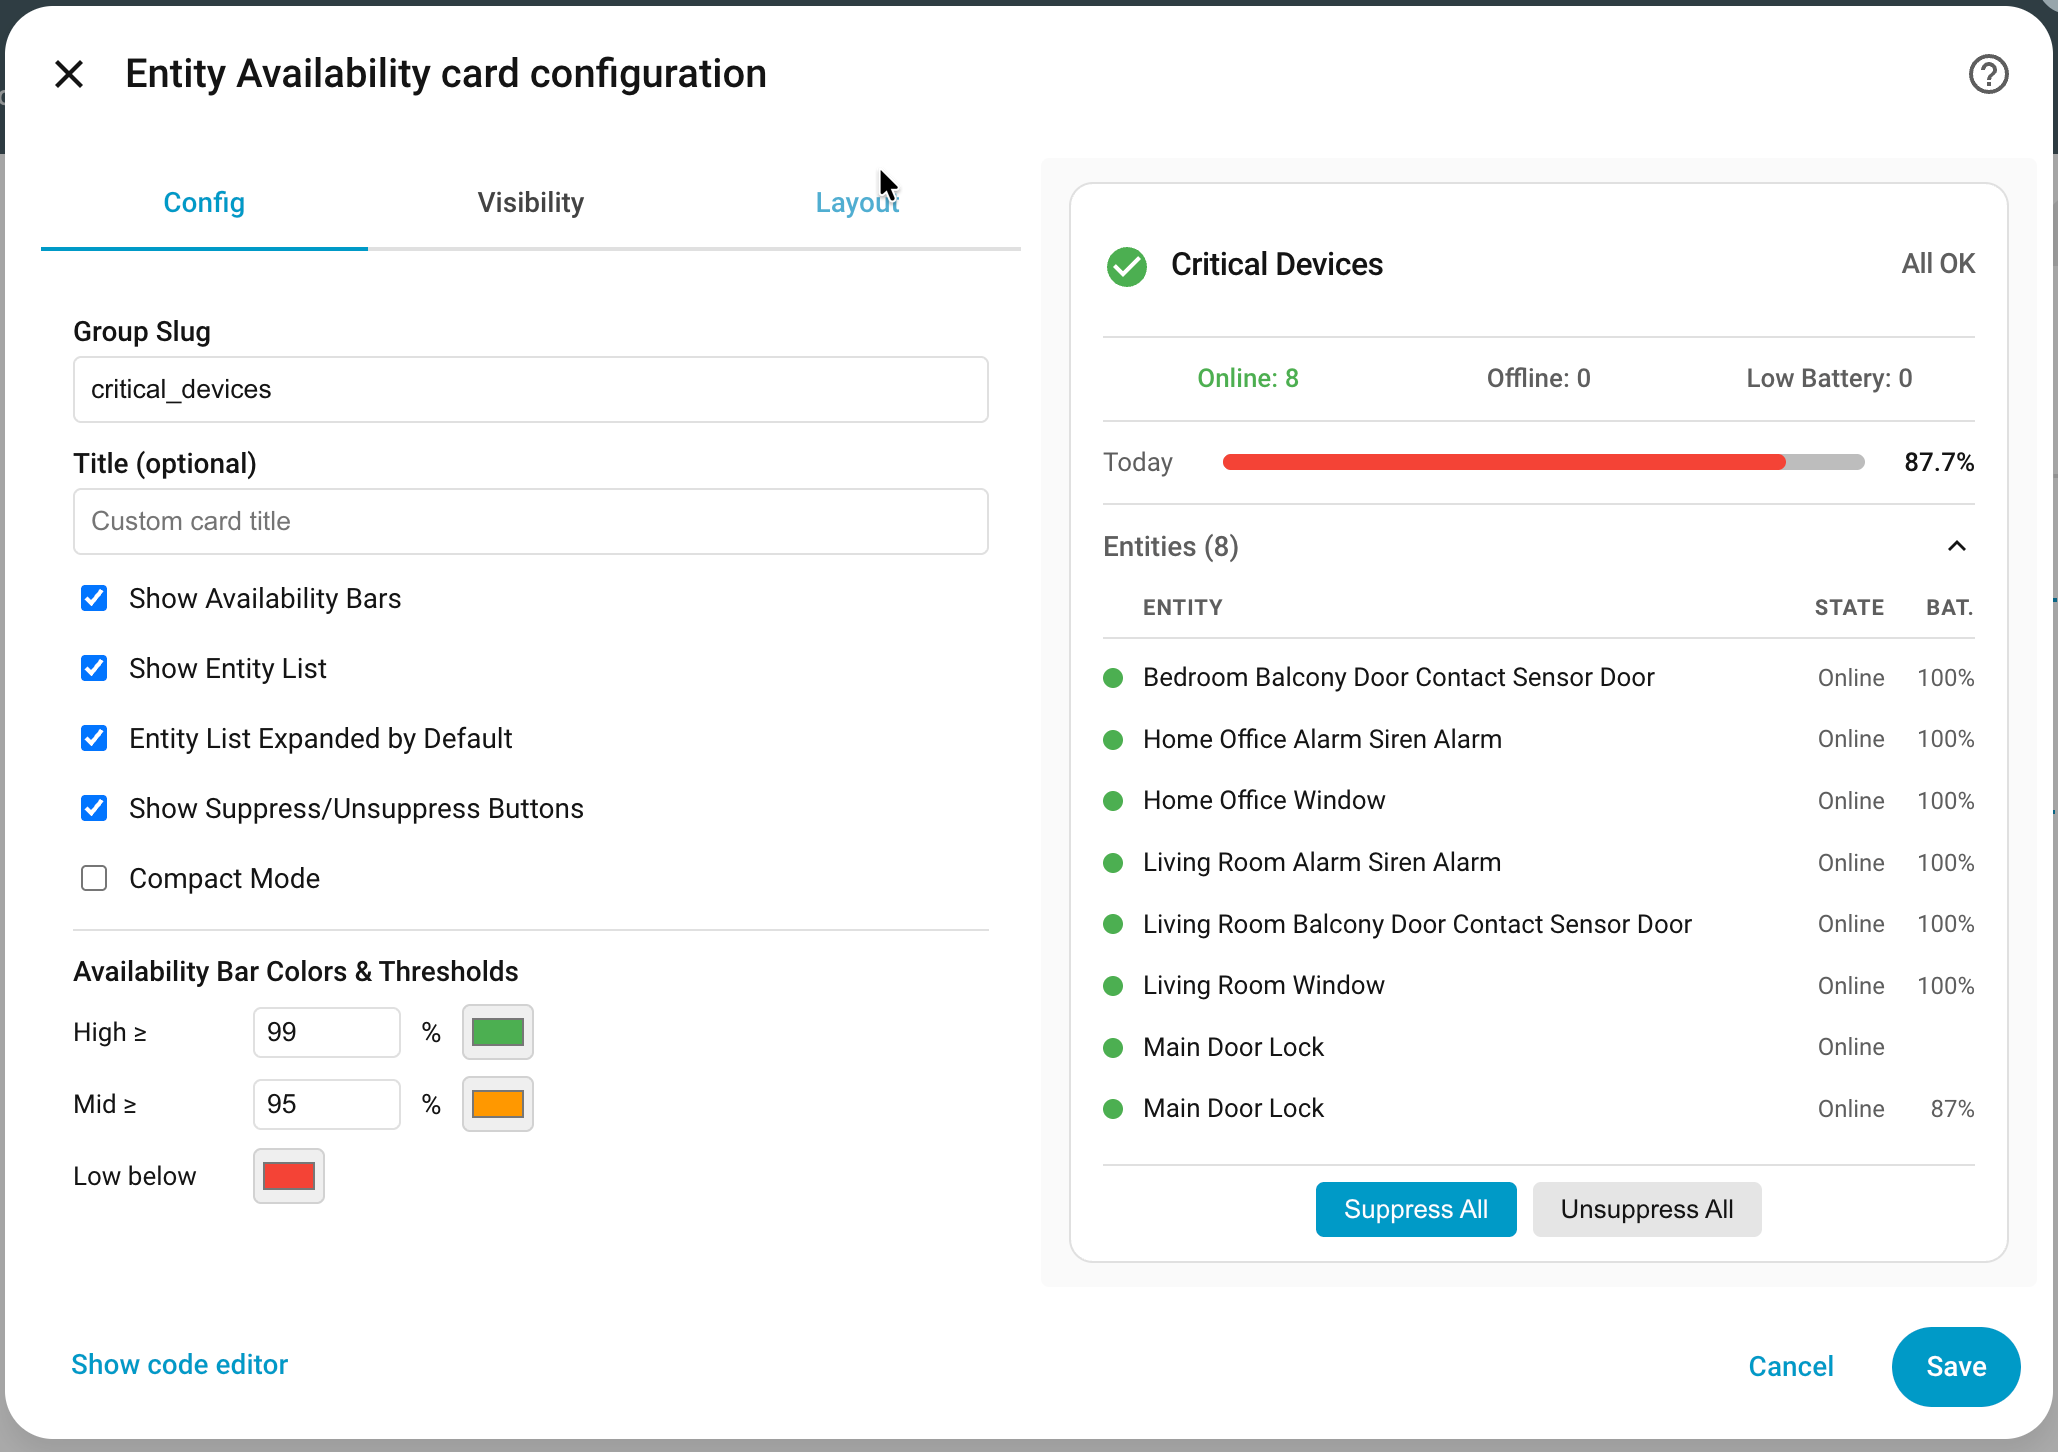
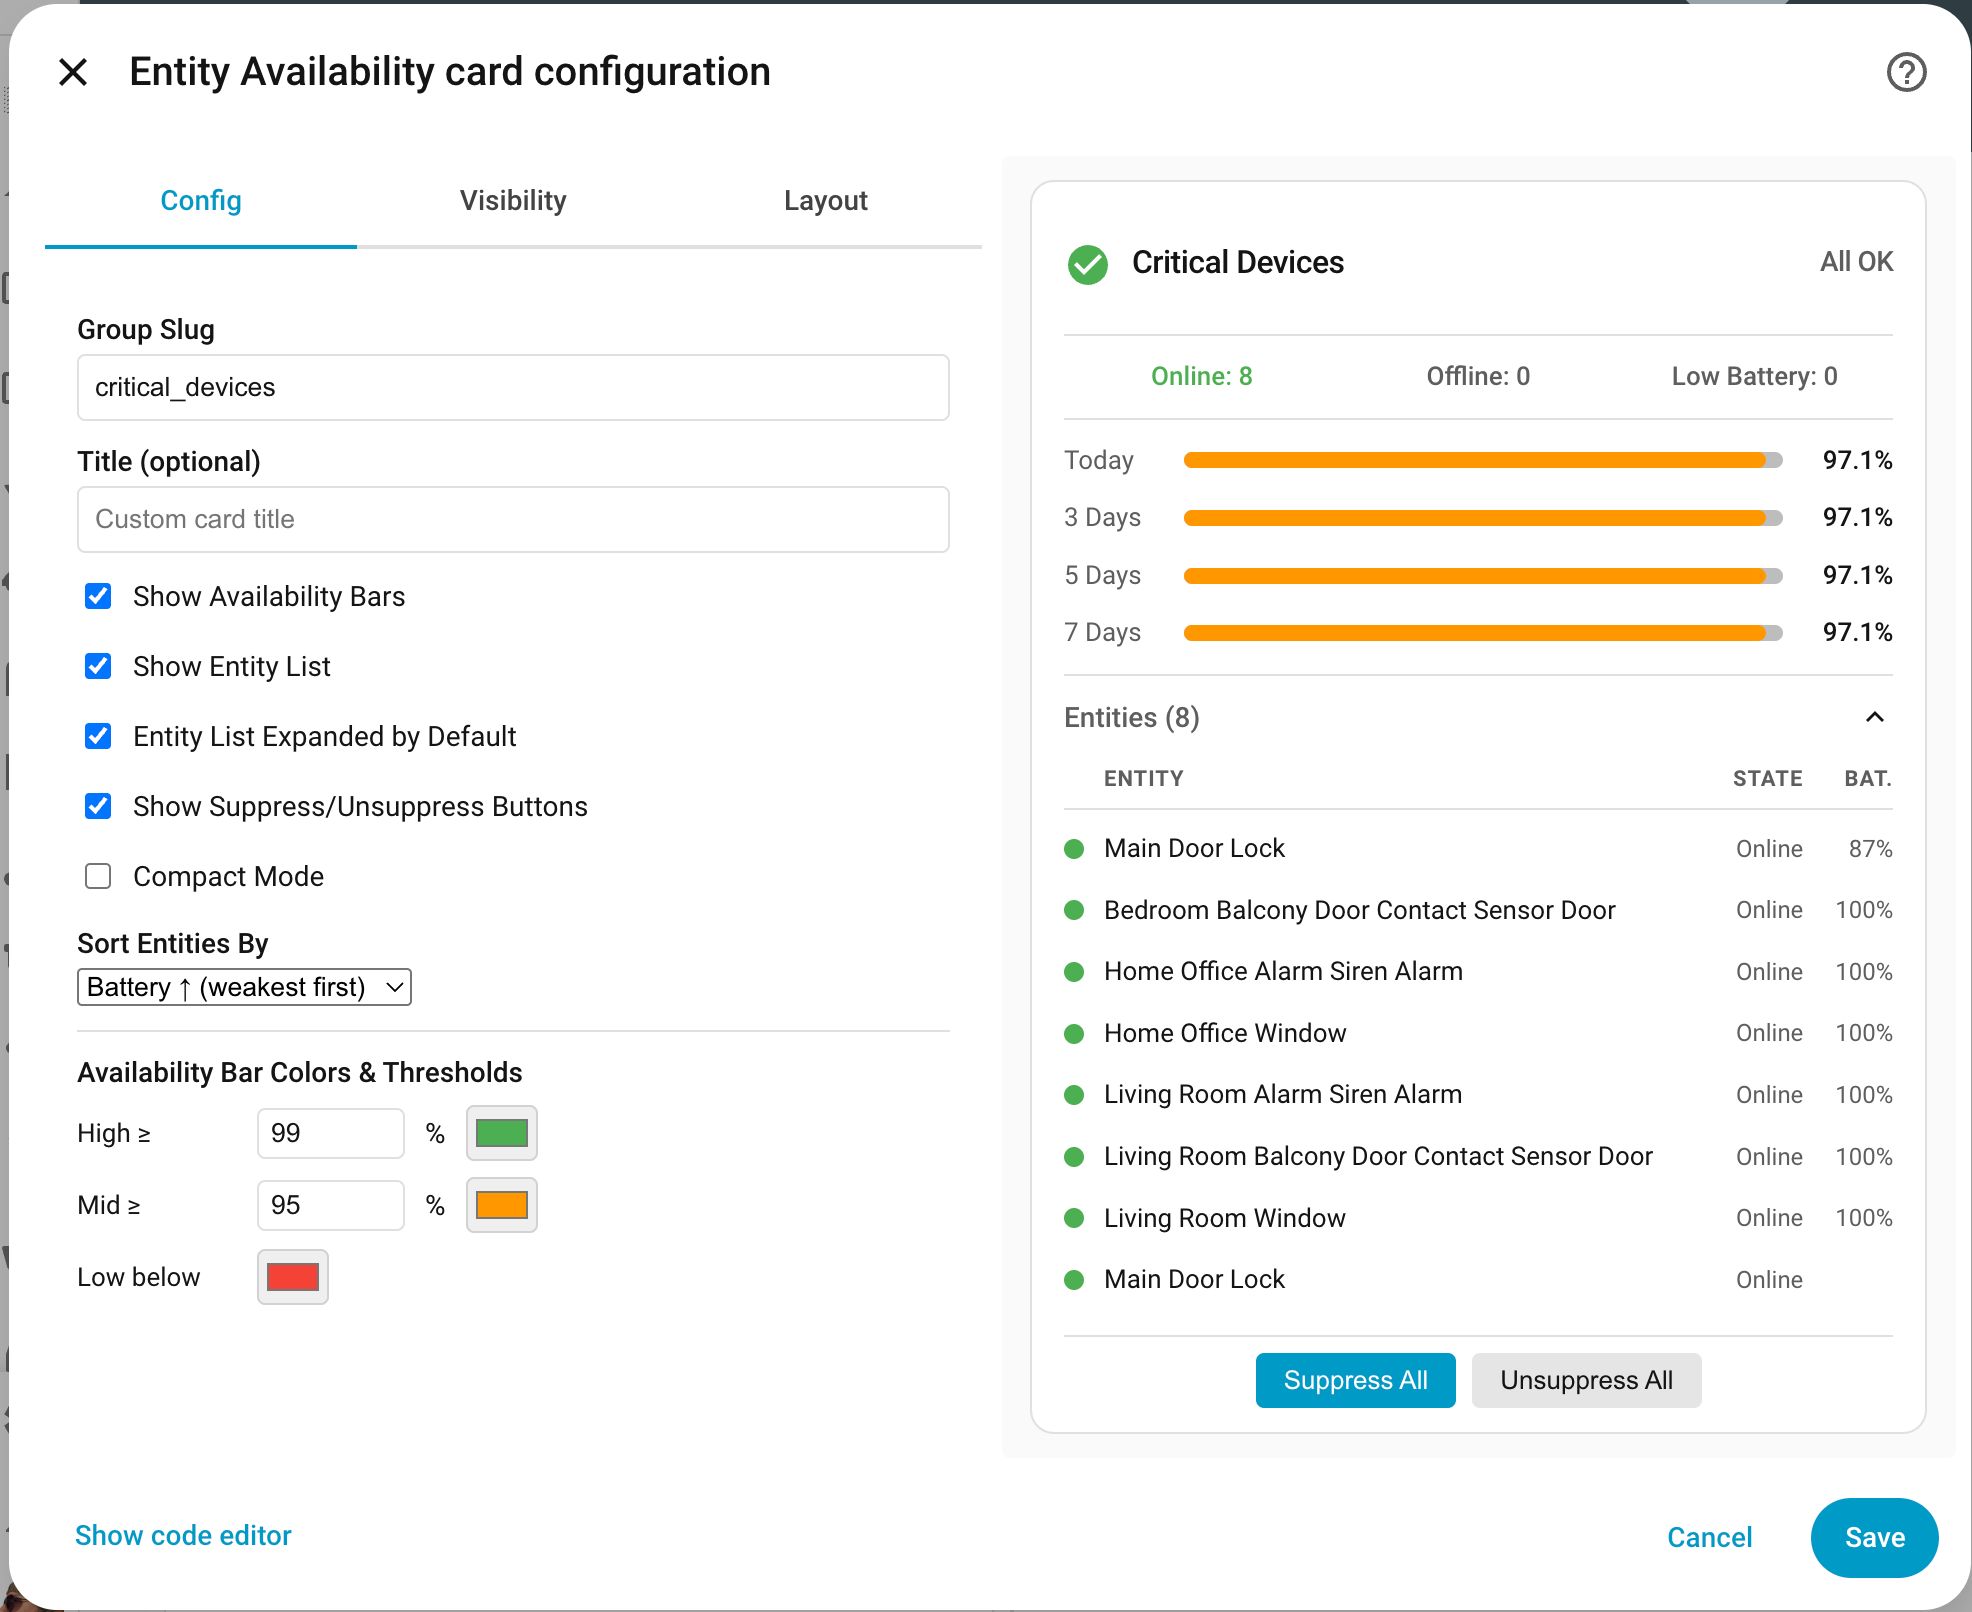
feat: add configurable entity sort order to Lovelace card
Add sort_by config option to entity-availability-card with five modes:
status (default), name_asc, name_desc, battery_asc, battery_desc.
Entities without a battery sensor sort to the bottom in battery modes.
Alphabetical tie-break applies within equal-battery groups.

Also adds sort dropdown to visual card editor and 32 pytest unit tests
covering all sort modes, null-battery sentinel logic, and edge cases.

Update README, info.md, and CHANGELOG to document new option.

diff --git a/custom_components/entity_availability/frontend/entity-availability-card.js b/custom_components/entity_availability/frontend/entity-availability-card.js
@@ -431,6 +431,7 @@ class EntityAvailabilityCard extends LitElement {
       entities_expanded: false,
       show_actions: false,
       compact: false,
+      sort_by: "status",
       ...config,
     };
     this._entitiesExpanded = this._config.entities_expanded;
@@ -643,11 +644,28 @@ class EntityAvailabilityCard extends LitElement {
     });
 
     items.sort((a, b) => {
-      if (a.isOffline && !b.isOffline) return -1;
-      if (!a.isOffline && b.isOffline) return 1;
-      if (a.dotColor === "yellow" && b.dotColor === "green") return -1;
-      if (a.dotColor === "green" && b.dotColor === "yellow") return 1;
-      return a.name.localeCompare(b.name);
+      const sortBy = this._config.sort_by || "status";
+      if (sortBy === "name_asc") {
+        return a.name.localeCompare(b.name);
+      } else if (sortBy === "name_desc") {
+        return b.name.localeCompare(a.name);
+      } else if (sortBy === "battery_asc") {
+        const aBat = a.battery ?? 101;
+        const bBat = b.battery ?? 101;
+        if (aBat !== bBat) return aBat - bBat;
+        return a.name.localeCompare(b.name);
+      } else if (sortBy === "battery_desc") {
+        const aBat = a.battery ?? -1;
+        const bBat = b.battery ?? -1;
+        if (aBat !== bBat) return bBat - aBat;
+        return a.name.localeCompare(b.name);
+      } else {
+        if (a.isOffline && !b.isOffline) return -1;
+        if (!a.isOffline && b.isOffline) return 1;
+        if (a.dotColor === "yellow" && b.dotColor === "green") return -1;
+        if (a.dotColor === "green" && b.dotColor === "yellow") return 1;
+        return a.name.localeCompare(b.name);
+      }
     });
 
     return items;
@@ -893,6 +911,19 @@ class EntityAvailabilityCardEditor extends LitElement {
             />
             Compact Mode
           </label>
+        </div>
+        <div class="editor-row">
+          <label>Sort Entities By</label>
+          <select
+            .value=${this._config.sort_by || "status"}
+            @change=${(e) => this._updateConfig("sort_by", e.target.value)}
+          >
+            <option value="status"       .selected=${(this._config.sort_by || "status") === "status"}>Status (default)</option>
+            <option value="name_asc"     .selected=${this._config.sort_by === "name_asc"}>Name A → Z</option>
+            <option value="name_desc"    .selected=${this._config.sort_by === "name_desc"}>Name Z → A</option>
+            <option value="battery_asc"  .selected=${this._config.sort_by === "battery_asc"}>Battery ↑ (weakest first)</option>
+            <option value="battery_desc" .selected=${this._config.sort_by === "battery_desc"}>Battery ↓ (strongest first)</option>
+          </select>
         </div>
         <div class="threshold-section">
           <label>Availability Bar Colors & Thresholds</label>

diff --git a/tests/test_card_sort.py b/tests/test_card_sort.py
@@ -1,0 +1,290 @@
+"""Tests for entity-availability-card.js sort logic.
+
+The card's _buildEntityItems() sort is pure algorithmic logic with no HA
+dependency. This module mirrors that logic in Python and tests all five
+sort_by values: status, name_asc, name_desc, battery_asc, battery_desc.
+"""
+
+from __future__ import annotations
+
+import functools
+from dataclasses import dataclass
+from typing import Optional
+
+
+@dataclass
+class EntityItem:
+    entity_id: str
+    name: str
+    dot_color: str  # "green" | "yellow" | "red"
+    status: str
+    battery: Optional[int]
+    is_offline: bool
+
+
+def sort_entities(items: list[EntityItem], sort_by: str = "status") -> list[EntityItem]:
+    """Mirror of _buildEntityItems sort logic from entity-availability-card.js."""
+
+    def comparator(a: EntityItem, b: EntityItem) -> int:
+        if sort_by == "name_asc":
+            return (a.name > b.name) - (a.name < b.name)
+        elif sort_by == "name_desc":
+            return (b.name > a.name) - (b.name < a.name)
+        elif sort_by == "battery_asc":
+            a_bat = a.battery if a.battery is not None else 101
+            b_bat = b.battery if b.battery is not None else 101
+            if a_bat != b_bat:
+                return a_bat - b_bat
+            return (a.name > b.name) - (a.name < b.name)
+        elif sort_by == "battery_desc":
+            a_bat = a.battery if a.battery is not None else -1
+            b_bat = b.battery if b.battery is not None else -1
+            if a_bat != b_bat:
+                return b_bat - a_bat
+            return (a.name > b.name) - (a.name < b.name)
+        else:  # "status" default
+            if a.is_offline and not b.is_offline:
+                return -1
+            if not a.is_offline and b.is_offline:
+                return 1
+            if a.dot_color == "yellow" and b.dot_color == "green":
+                return -1
+            if a.dot_color == "green" and b.dot_color == "yellow":
+                return 1
+            return (a.name > b.name) - (a.name < b.name)
+
+    return sorted(items, key=functools.cmp_to_key(comparator))
+
+
+# ---------------------------------------------------------------------------
+# Helpers
+# ---------------------------------------------------------------------------
+
+def _online(name: str, battery: Optional[int] = None) -> EntityItem:
+    dot = "yellow" if battery is not None and battery < 20 else "green"
+    status = "Low Battery" if dot == "yellow" else "Online"
+    return EntityItem(
+        entity_id=f"binary_sensor.{name.lower().replace(' ', '_')}",
+        name=name,
+        dot_color=dot,
+        status=status,
+        battery=battery,
+        is_offline=False,
+    )
+
+
+def _offline(name: str, battery: Optional[int] = None) -> EntityItem:
+    return EntityItem(
+        entity_id=f"binary_sensor.{name.lower().replace(' ', '_')}",
+        name=name,
+        dot_color="red",
+        status="Offline",
+        battery=battery,
+        is_offline=True,
+    )
+
+
+# ---------------------------------------------------------------------------
+# status (default)
+# ---------------------------------------------------------------------------
+
+class TestSortByStatus:
+    def test_offline_before_online(self):
+        items = [_online("Alpha"), _offline("Beta")]
+        result = sort_entities(items, "status")
+        assert result[0].name == "Beta"
+        assert result[1].name == "Alpha"
+
+    def test_low_battery_before_online(self):
+        items = [_online("Alpha"), _online("Beta", battery=10)]
+        result = sort_entities(items, "status")
+        assert result[0].name == "Beta"
+        assert result[1].name == "Alpha"
+
+    def test_offline_before_low_battery_before_online(self):
+        items = [_online("Charlie"), _online("Beta", battery=10), _offline("Alpha")]
+        result = sort_entities(items, "status")
+        assert [r.name for r in result] == ["Alpha", "Beta", "Charlie"]
+
+    def test_alphabetical_within_online(self):
+        items = [_online("Charlie"), _online("Alpha"), _online("Beta")]
+        result = sort_entities(items, "status")
+        assert [r.name for r in result] == ["Alpha", "Beta", "Charlie"]
+
+    def test_alphabetical_within_offline(self):
+        items = [_offline("Charlie"), _offline("Alpha"), _offline("Beta")]
+        result = sort_entities(items, "status")
+        assert [r.name for r in result] == ["Alpha", "Beta", "Charlie"]
+
+    def test_alphabetical_within_low_battery(self):
+        items = [_online("Charlie", battery=5), _online("Alpha", battery=5), _online("Beta", battery=5)]
+        result = sort_entities(items, "status")
+        assert [r.name for r in result] == ["Alpha", "Beta", "Charlie"]
+
+    def test_default_sort_by_is_status(self):
+        items = [_online("Alpha"), _offline("Beta")]
+        assert sort_entities(items) == sort_entities(items, "status")
+
+    def test_single_item(self):
+        items = [_online("Alpha")]
+        assert sort_entities(items, "status") == items
+
+    def test_empty_list(self):
+        assert sort_entities([], "status") == []
+
+
+# ---------------------------------------------------------------------------
+# name_asc
+# ---------------------------------------------------------------------------
+
+class TestSortByNameAsc:
+    def test_alphabetical_order(self):
+        items = [_online("Charlie"), _offline("Alpha"), _online("Beta", battery=5)]
+        result = sort_entities(items, "name_asc")
+        assert [r.name for r in result] == ["Alpha", "Beta", "Charlie"]
+
+    def test_status_irrelevant(self):
+        items = [_offline("Zara"), _online("Alice")]
+        result = sort_entities(items, "name_asc")
+        assert result[0].name == "Alice"
+
+    def test_battery_irrelevant(self):
+        items = [_online("Zara", battery=1), _online("Alice", battery=99)]
+        result = sort_entities(items, "name_asc")
+        assert result[0].name == "Alice"
+
+    def test_case_sensitive_ordering(self):
+        items = [_online("beta"), _online("Alpha")]
+        result = sort_entities(items, "name_asc")
+        # Python str comparison: uppercase < lowercase in ASCII, but
+        # we use > / < which matches locale-independent comparison
+        assert result[0].name in ("Alpha", "beta")  # order is consistent
+
+    def test_single_item(self):
+        assert sort_entities([_online("Alpha")], "name_asc") == [_online("Alpha")]
+
+
+# ---------------------------------------------------------------------------
+# name_desc
+# ---------------------------------------------------------------------------
+
+class TestSortByNameDesc:
+    def test_reverse_alphabetical_order(self):
+        items = [_online("Alpha"), _offline("Charlie"), _online("Beta")]
+        result = sort_entities(items, "name_desc")
+        assert [r.name for r in result] == ["Charlie", "Beta", "Alpha"]
+
+    def test_status_irrelevant(self):
+        items = [_online("Alice"), _offline("Zara")]
+        result = sort_entities(items, "name_desc")
+        assert result[0].name == "Zara"
+
+    def test_battery_irrelevant(self):
+        items = [_online("Alice", battery=99), _online("Zara", battery=1)]
+        result = sort_entities(items, "name_desc")
+        assert result[0].name == "Zara"
+
+
+# ---------------------------------------------------------------------------
+# battery_asc (weakest first)
+# ---------------------------------------------------------------------------
+
+class TestSortByBatteryAsc:
+    def test_lowest_battery_first(self):
+        items = [_online("Alpha", battery=80), _online("Beta", battery=10), _online("Charlie", battery=50)]
+        result = sort_entities(items, "battery_asc")
+        assert [r.battery for r in result] == [10, 50, 80]
+
+    def test_no_battery_sorts_last(self):
+        items = [_online("Alpha"), _online("Beta", battery=50), _online("Charlie", battery=10)]
+        result = sort_entities(items, "battery_asc")
+        assert result[-1].name == "Alpha"
+        assert result[-1].battery is None
+
+    def test_multiple_no_battery_sort_alphabetically(self):
+        items = [_online("Zara"), _online("Alice"), _online("Beta", battery=50)]
+        result = sort_entities(items, "battery_asc")
+        assert result[0].name == "Beta"
+        assert result[1].name == "Alice"
+        assert result[2].name == "Zara"
+
+    def test_same_battery_alphabetical_tiebreak(self):
+        items = [_online("Charlie", battery=20), _online("Alpha", battery=20), _online("Beta", battery=20)]
+        result = sort_entities(items, "battery_asc")
+        assert [r.name for r in result] == ["Alpha", "Beta", "Charlie"]
+
+    def test_offline_entity_with_battery(self):
+        items = [_online("Alpha", battery=80), _offline("Beta", battery=5)]
+        result = sort_entities(items, "battery_asc")
+        assert result[0].name == "Beta"
+
+    def test_zero_battery_first(self):
+        items = [_online("Alpha", battery=1), _online("Beta", battery=0)]
+        result = sort_entities(items, "battery_asc")
+        assert result[0].battery == 0
+
+    def test_single_no_battery(self):
+        items = [_online("Alpha")]
+        result = sort_entities(items, "battery_asc")
+        assert result[0].battery is None
+
+
+# ---------------------------------------------------------------------------
+# battery_desc (strongest first)
+# ---------------------------------------------------------------------------
+
+class TestSortByBatteryDesc:
+    def test_highest_battery_first(self):
+        items = [_online("Alpha", battery=10), _online("Beta", battery=80), _online("Charlie", battery=50)]
+        result = sort_entities(items, "battery_desc")
+        assert [r.battery for r in result] == [80, 50, 10]
+
+    def test_no_battery_sorts_last(self):
+        items = [_online("Alpha"), _online("Beta", battery=50), _online("Charlie", battery=10)]
+        result = sort_entities(items, "battery_desc")
+        assert result[-1].name == "Alpha"
+        assert result[-1].battery is None
+
+    def test_multiple_no_battery_sort_alphabetically(self):
+        items = [_online("Zara"), _online("Alice"), _online("Beta", battery=50)]
+        result = sort_entities(items, "battery_desc")
+        assert result[0].name == "Beta"
+        assert result[1].name == "Alice"
+        assert result[2].name == "Zara"
+
+    def test_same_battery_alphabetical_tiebreak(self):
+        items = [_online("Charlie", battery=80), _online("Alpha", battery=80), _online("Beta", battery=80)]
+        result = sort_entities(items, "battery_desc")
+        assert [r.name for r in result] == ["Alpha", "Beta", "Charlie"]
+
+    def test_offline_entity_with_battery(self):
+        items = [_online("Alpha", battery=5), _offline("Beta", battery=80)]
+        result = sort_entities(items, "battery_desc")
+        assert result[0].name == "Beta"
+
+    def test_full_battery_first(self):
+        items = [_online("Alpha", battery=99), _online("Beta", battery=100)]
+        result = sort_entities(items, "battery_desc")
+        assert result[0].battery == 100
+
+    def test_asc_and_desc_are_opposite(self):
+        items = [
+            _online("Alpha", battery=10),
+            _online("Beta", battery=50),
+            _online("Charlie", battery=90),
+        ]
+        asc = sort_entities(items, "battery_asc")
+        desc = sort_entities(items, "battery_desc")
+        assert [r.name for r in asc] == list(reversed([r.name for r in desc]))
+
+
+# ---------------------------------------------------------------------------
+# unknown / fallback sort_by value
+# ---------------------------------------------------------------------------
+
+class TestSortByFallback:
+    def test_unknown_value_uses_status(self):
+        items = [_online("Alpha"), _offline("Beta")]
+        result = sort_entities(items, "unknown_value")
+        # Falls through to status branch: offline first
+        assert result[0].name == "Beta"

diff --git a/CHANGELOG.md b/CHANGELOG.md
@@ -2,6 +2,15 @@
 
 All notable changes to this project will be documented in this file.
 
+## [Unreleased]
+
+### Added
+- Card: configurable entity sort order via `sort_by` option (`status`, `name_asc`, `name_desc`, `battery_asc`, `battery_desc`)
+- Card: sort dropdown in visual editor
+
+### Fixed
+- `async_request_refresh` called without `await` inside a `@callback` debounce function, causing a `RuntimeWarning` about an unawaited coroutine — now scheduled via `hass.async_create_task()`
+
 ## [0.1.0] - 2026-05-04
 
 ### Changed

diff --git a/README.md b/README.md
@@ -347,6 +347,7 @@ show_entities: true
 entities_expanded: false
 show_actions: false
 compact: false
+sort_by: status
 availability_thresholds:
   high: 99
   mid: 95
@@ -365,6 +366,7 @@ availability_colors:
 | `entities_expanded` | `false` | Start entity list expanded |
 | `show_actions` | `false` | Show Suppress/Unsuppress buttons |
 | `compact` | `false` | Reduced padding mode |
+| `sort_by` | `status` | Entity list sort order: `status`, `name_asc`, `name_desc`, `battery_asc`, `battery_desc` |
 | `availability_thresholds` | `{high: 99, mid: 95}` | % thresholds for bar colors |
 | `availability_colors` | `{high, mid, low}` | Custom hex colors for bars |
 

diff --git a/info.md b/info.md
@@ -16,6 +16,7 @@ Monitor entity availability across your Home Assistant setup. Track offline enti
 - Maintenance/suppression mode — suppress individual entities or entire groups
 - Any Offline binary sensor (Problem class) — triggers automations when entities go offline
 - Custom Lovelace card — dashboard-style display with status icon, stats, availability bars, entity list, and visual editor
+- Configurable entity sort order in card — by status, name, or battery level (ascending/descending)
 - Customizable availability bar colors and thresholds
 - Optional suppress/unsuppress action buttons in card
 - Survives HA restarts — history persisted via HA Store, no recorder dependency